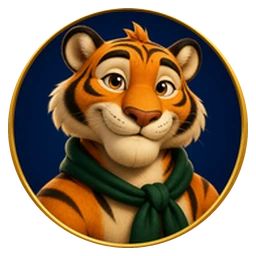
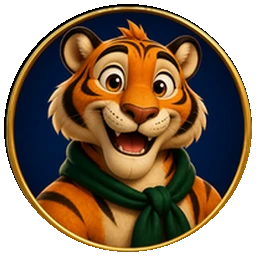
Bagh's happy face (Canva, matches his portrait); Lichess in Latin letters in the Punjabi credit (second-AI review)

diff --git a/src/i18n.ts b/src/i18n.ts
@@ -1418,7 +1418,7 @@ export const UI = {
   matesReviewRow: { en: "Review", pa: "ਦੁਹਰਾਈ" },
   matesLinkLadder: { en: "Practise it on the Endgame ladder", pa: "ਅੰਤਲੀ ਖੇਡ ਦੀ ਪੌੜੀ 'ਤੇ ਅਭਿਆਸ ਕਰੋ" },
   matesLinkLesson: { en: "Practise it in lesson {l}", pa: "ਪਾਠ {l} ਵਿੱਚ ਅਭਿਆਸ ਕਰੋ" },
-  matesSourceBank: { en: "From Lichess puzzle {id} (CC0).", pa: "ਲਾਇਚੈੱਸ ਬੁਝਾਰਤ {id} ਤੋਂ (CC0)।" },
+  matesSourceBank: { en: "From Lichess puzzle {id} (CC0).", pa: "Lichess ਬੁਝਾਰਤ {id} ਤੋਂ (CC0)।" },
   matesSourceGame: { en: "From {game}.", pa: "{game} ਤੋਂ।" },
   matesSourceMade: { en: "A line built for this lesson; the computer checked every move.", pa: "ਇਸ ਪਾਠ ਲਈ ਬਣਾਈ ਲਾਈਨ; ਕੰਪਿਊਟਰ ਨੇ ਹਰ ਚਾਲ ਜਾਂਚੀ ਹੈ।" },
   matesAlsoCalled: { en: "Also called: {n}", pa: "ਹੋਰ ਨਾਂ: {n}" },
